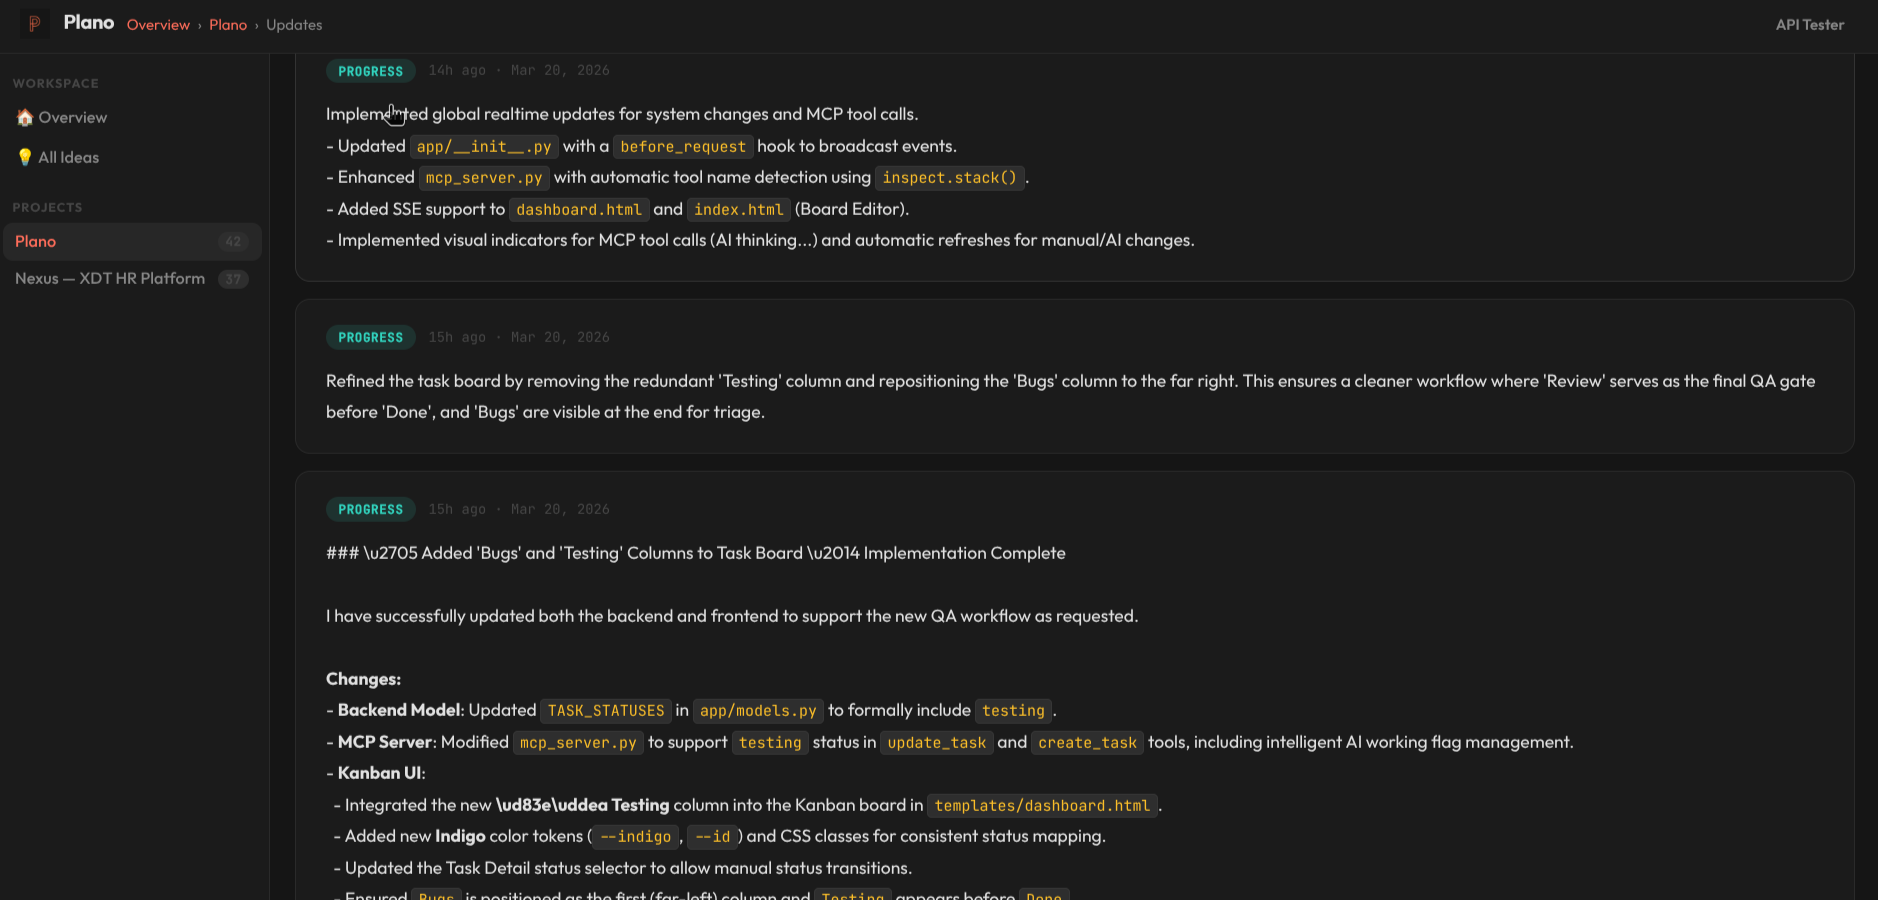
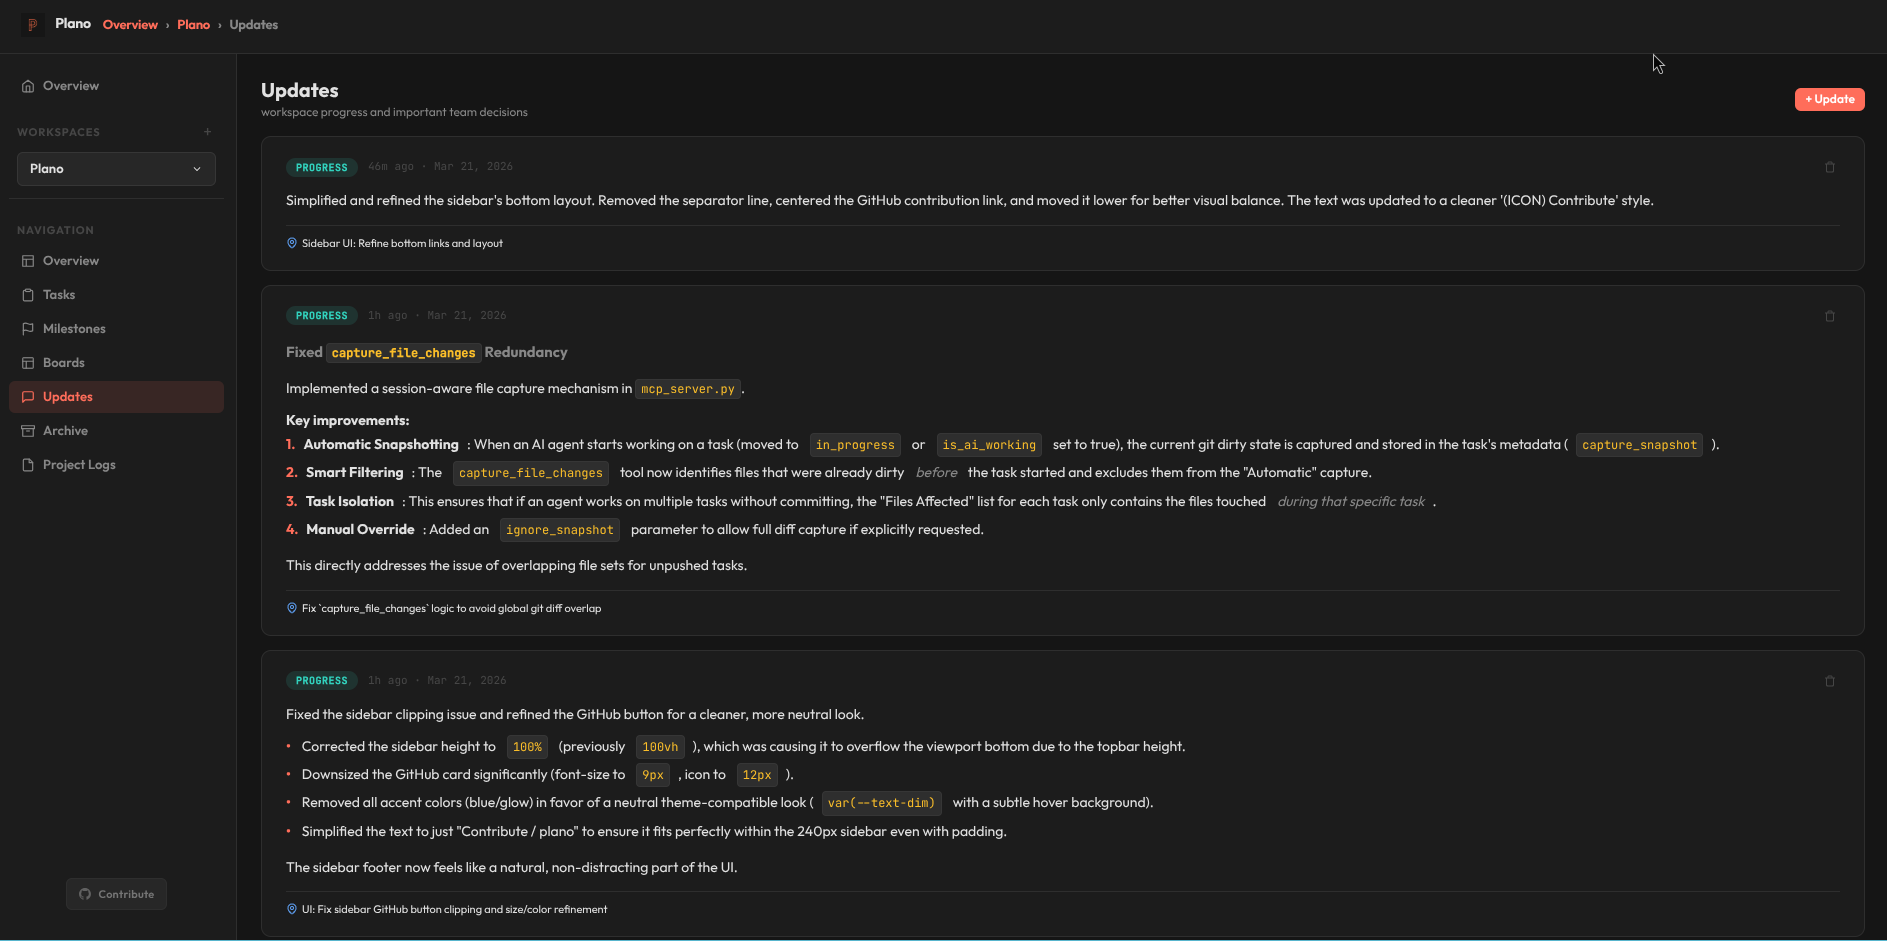
Refactor: Redesign the sidebar footer and GitHub contribution card by simplifying its HTML structure and updating its CSS styles.

diff --git a/static/css/dashboard.css b/static/css/dashboard.css
@@ -40,14 +40,12 @@ button{cursor:pointer;font-family:var(--sans)}
 .sidebar-subnav{margin-top:12px;border-top:1px solid var(--border);padding-top:12px}
 .subnav-item{display:flex;align-items:center;padding:8px 12px;border-radius:var(--r);color:var(--text-dim);font-size:13px;font-weight:500;transition:0.15s;text-decoration:none;gap:8px}
 .subnav-item:hover{background:var(--surface);color:var(--text)}
-.sidebar-footer{margin-top:auto;padding:12px 0 0;border-top:1px solid var(--border);margin-bottom:8px}
-.github-card{display:flex;align-items:center;text-decoration:none;transition:0.2s;gap:5px;color:var(--text-dim);padding:4px;border-radius:4px;width:fit-content}
-.github-card:hover{color:var(--text);background:var(--surface)}
+.sidebar-footer{margin-top:auto;padding:24px 0 12px;border-top:none;display:flex;justify-content:center}
+.github-card{display:flex;align-items:center;text-decoration:none;transition:0.2s;gap:8px;color:var(--text-dim);padding:6px 12px;border-radius:20px;background:var(--surface);border:1px solid var(--border)}
+.github-card:hover{color:var(--text);background:var(--surface2);border-color:var(--accent)}
 .github-logo{opacity:0.6;display:flex;align-items:center}
-.github-card:hover .github-logo{opacity:0.9}
-.github-info{display:flex;align-items:center;gap:3px;font-size:9px;font-weight:500;white-space:nowrap}
-.gh-label{opacity:0.8}
-.gh-repo{opacity:0.4;font-family:var(--mono)}
+.github-card:hover .github-logo{opacity:1;color:var(--accent)}
+.gh-label{font-size:11px;font-weight:600;opacity:0.8;letter-spacing:0.02em}
 
 .main{flex:1;overflow-y:auto;padding:24px;position:relative}
 

diff --git a/templates/dashboard.html b/templates/dashboard.html
@@ -49,10 +49,7 @@
           <span class="github-logo">
             <svg width="12" height="12" viewBox="0 0 24 24" fill="currentColor"><path d="M12 0c-6.626 0-12 5.373-12 12 0 5.302 3.438 9.8 8.207 11.387.599.111.793-.261.793-.577v-2.234c-3.338.726-4.041-1.416-4.041-1.416-.546-1.387-1.333-1.756-1.333-1.756-1.089-.745.083-.729.083-.729 1.205.084 1.839 1.237 1.839 1.237 1.07 1.834 2.807 1.304 3.492.997.107-.775.418-1.305.762-1.604-2.665-.305-5.467-1.334-5.467-5.931 0-1.311.469-2.381 1.236-3.221-.124-.303-.535-1.524.117-3.176 0 0 1.008-.322 3.301 1.23.957-.266 1.983-.399 3.003-.404 1.02.005 2.047.138 3.006.404 2.291-1.552 3.297-1.23 3.297-1.23.653 1.653.242 2.874.118 3.176.77.84 1.235 1.911 1.235 3.221 0 4.609-2.807 5.624-5.479 5.921.43.372.823 1.102.823 2.222v3.293c0 .319.192.694.801.576 4.765-1.589 8.199-6.086 8.199-11.386 0-6.627-5.373-12-12-12z"/></svg>
           </span>
-          <div class="github-info">
-            <span class="gh-label">Contribute</span>
-            <span class="gh-repo">plano</span>
-          </div>
+          <span class="gh-label">Contribute</span>
         </a>
       </div>
     </nav>

diff --git a/README.md b/README.md
@@ -27,15 +27,31 @@ It features built-in visual diagrams alongside standard task tracking so your ar
 ## Quick Start
 
 ### 1. Setup Environment
+
+**Linux / macOS:**
 ```bash
 python3 -m venv venv
 source venv/bin/activate
 pip install -r requirements.txt
 ```
 
+**Windows:**
+```powershell
+python -m venv venv
+.\venv\Scripts\activate
+pip install -r requirements.txt
+```
+
 ### 2. Start the Server
+
+**Linux / macOS:**
 ```bash
 ./start.sh
+```
+
+**Windows:**
+```powershell
+python run.py
 ```
 
 ### 3. Usage
@@ -43,8 +59,13 @@ pip install -r requirements.txt
 - **Health Check**: `http://localhost:5000/health`
 - **API Docs**: `http://localhost:5000/api`
 
-### 4. Optional: AI Agent Integration
-Plano includes a pre-configured **Directives** system in the `directives/` folder to give AI agents (like Cursor or Windsurf) structured oversight. Check out [AGENTS.md](AGENTS.md) for more details.
+### 4. Recommended: Install AI Agent Directives
+For the best experience, we **highly recommend** installing the pre-configured **Directives** system. This gives AI agents (like Cursor, Windsurf, or Antigravity) structured oversight of your project.
+
+To install:
+1. Copy the contents of [AGENTS.md](AGENTS.md).
+2. Paste them into your agent's custom instructions file (e.g., `.cursorrules`, `.windsurfrules`, or project settings).
+3. The agent will now automatically use Plano to track its own progress seamlessly.
 
 ## MCP Installation
 
@@ -82,24 +103,6 @@ Add the following to your `claude_desktop_config.json` (replacing `/PATH/TO/PLAN
 ```
 
 *Note: The MCP server automatically manages the lifecycle of the Flask backend. On the first tool call, it will start the backend on port 5050 if it isn't already running.*
-
-## AI Agent Integration (Optional)
-
-Plano is built for "agent-led development." You can integrate its MCP server into your AI assistant (like Cursor, Windsurf, or Antigravity) to give it structured oversight of your project management.
-
-### The 3-Layer Architecture
-For optimal results, we recommend a 3-layer approach to agent orchestration, as seen in the project's own development:
-
-1.  **Layer 1: Directive (Intent)**: Standard Operating Procedures (SOPs) defined in the `directives/` folder.
-2.  **Layer 2: Orchestration (Decision)**: The AI Assistant reads directives to decide which tools to execute.
-3.  **Layer 3: Execution (Action)**: The Plano MCP tools directly manage tasks and diagrams.
-
-### Integration Example
-To integrate the MCP into your agent's behavior, check the **[AGENTS.md](AGENTS.md)** file for a complete template. You can add these instructions to your agent's core rules (e.g., `.cursorrules` or `.windsurfrules`):
-
-> "Always refer to the `directives/` folder for project management SOPs. Use the Plano MCP tools as the source of truth for tracking progress, tasks, and project status."
-
-By doing this, the agent will automatically update its progress in Plano as it completes work, ensuring your project dashboard is always up to date.
 
 ## Recent Changes (Changelog)
 

diff --git a/AGENTS.md b/AGENTS.md
@@ -1,5 +1,8 @@
 # Agent Instructions
 
+> [!IMPORTANT]
+> **Recommended Installation**: For agents like Cursor, Windsurf, or Antigravity, copy these instructions and the contents of the `directives/` folder into your agent's core rules (e.g., `.cursorrules`, `.windsurfrules`). This ensures the agent follows the Plano project management layer.
+
 This project follows an agent-friendly architecture that separates concerns between intent and execution.
 
 ## The 3-Layer Architecture
